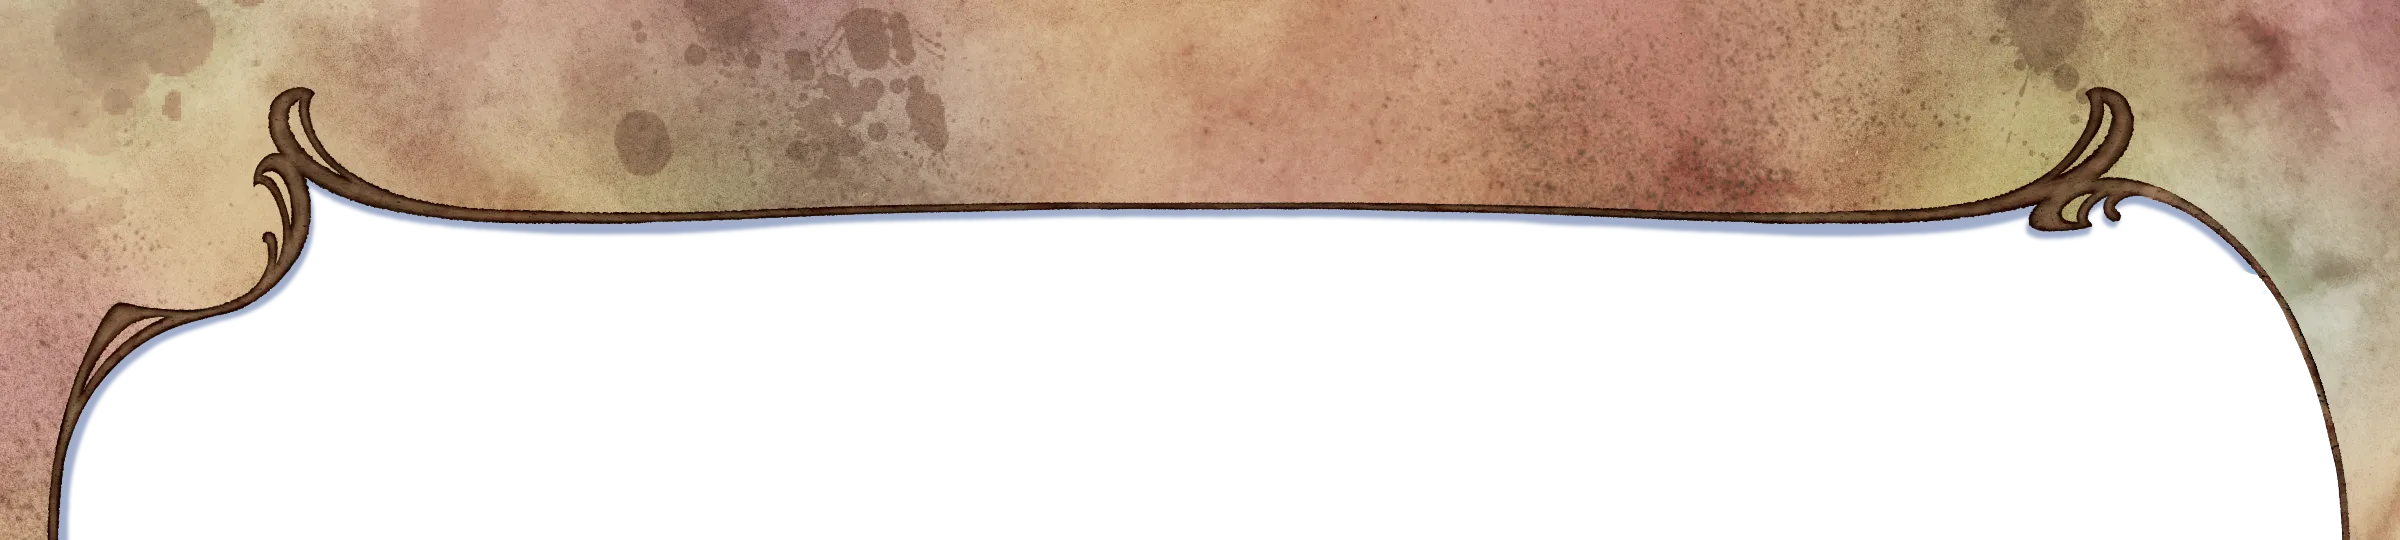
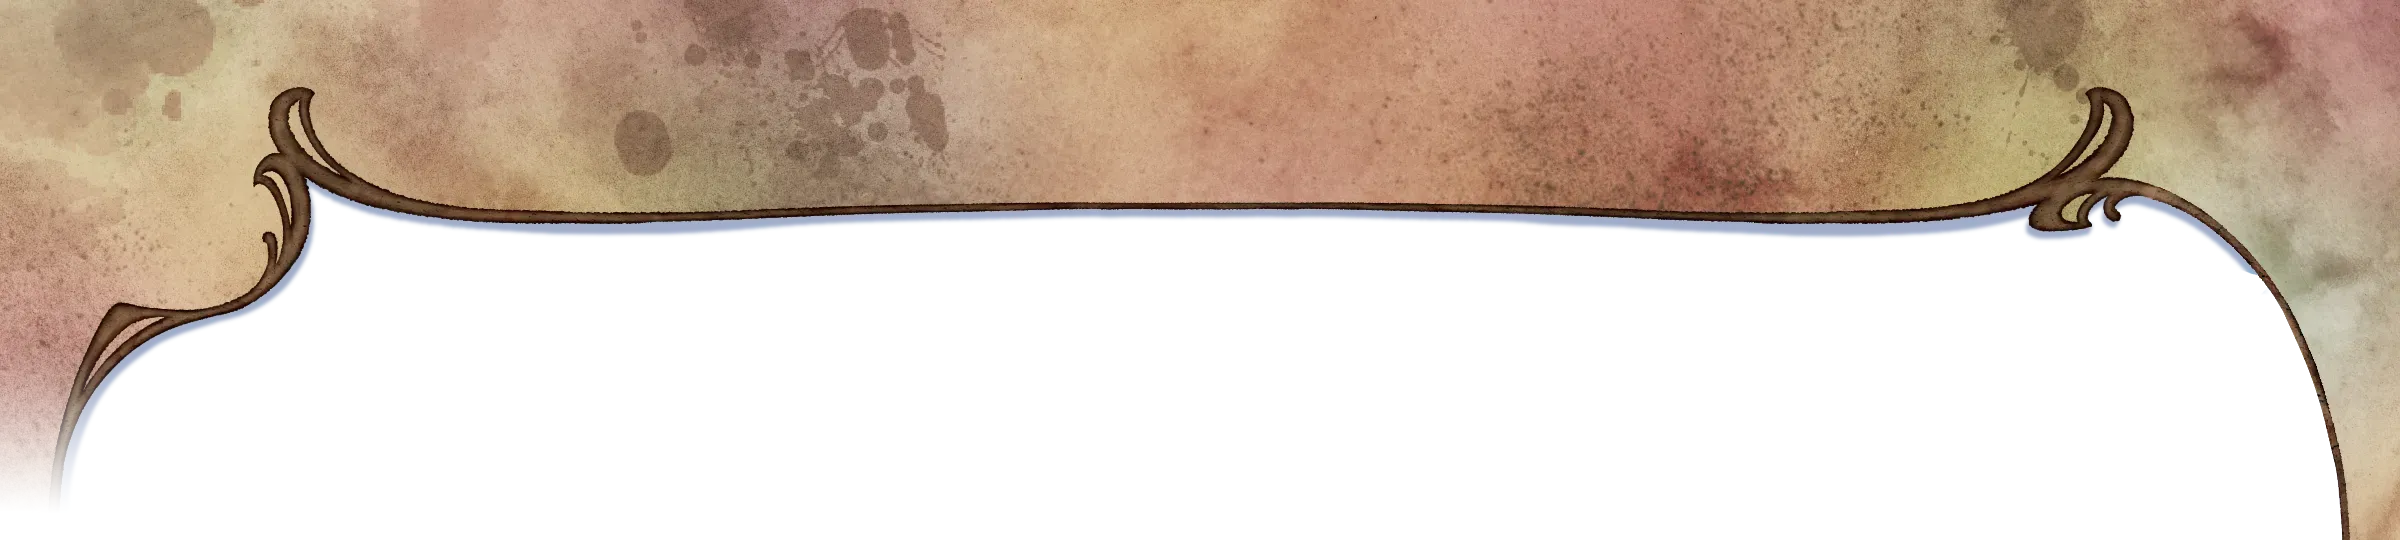
Moon enabled only at night

Changed region(s): [[0.0, 0.6815, 0.0625, 1.0]]

diff --git a/client/src/scene/matchRegions/passRegion.ts b/client/src/scene/matchRegions/passRegion.ts
@@ -19,6 +19,7 @@ import { server } from '../../server'
 export default class PassRegion extends Region {
   callback: () => boolean
   recapCallback: () => void
+  skipCallback: () => void
 
   // The callback once the winner has been declared
   showResultsCallback: () => void
@@ -63,9 +64,20 @@ export default class PassRegion extends Region {
     }
     this.container.setVisible(true)
 
-    // Display the current score totals
-    const s = `${state.score[1]}\n\n${state.score[0]}`
-    this.btnMoon.setText(s)
+    // Display the current score totals (mark when recap has paused on round result)
+    const isRecapEndPause =
+      state.isRecap &&
+      state.sound !== null &&
+      ['win', 'lose', 'tie'].includes(state.sound)
+    this.btnMoon.setText(
+      `${state.score[1]}\n${isRecapEndPause ? 'Paused' : ''}\n${state.score[0]}`,
+    )
+
+    if (state.isRecap) {
+      this.btnMoon.enable()
+    } else {
+      this.btnMoon.disable()
+    }
 
     // Rotate to the right day/night
     this.showDayNight(state.isRecap)
@@ -135,7 +147,9 @@ export default class PassRegion extends Region {
   private createButtons(): void {
     const x = -115
     this.btnPass = new Buttons.Sun(this.container, x, 0)
-    this.btnMoon = new Buttons.Moon(this.container, -x, 0, () => {})
+    this.btnMoon = new Buttons.Moon(this.container, -x, 0, () =>
+      this.skipCallback(),
+    ).disable()
   }
 
   private createText(): void {

diff --git a/client/src/scene/matchRegions/backgroundRegion.ts b/client/src/scene/matchRegions/backgroundRegion.ts
@@ -39,9 +39,8 @@ export default class BackgroundRegion extends Region {
 
     this.matchTop = scene.add
       .image(0, 0, 'background-matchTop')
-      .setOrigin(0.5, 0)
+      .setOrigin(0.5, 1)
       .setInteractive()
-      .setVisible(false)
 
     this.matchBottom = scene.add
       .image(0, 0, 'background-matchBottom')
@@ -57,9 +56,10 @@ export default class BackgroundRegion extends Region {
       height: `100%`,
     })
 
+    const height = 350
     scene.plugins.get('rexAnchor')['add'](this.matchTop, {
       x: `50%`,
-      y: `0%`,
+      y: `0%+${height}`,
       width: `100%`,
       onResizeCallback: (w, _h, img, anchor) => {
         fitBackgroundWidth(
@@ -70,9 +70,10 @@ export default class BackgroundRegion extends Region {
       },
     })
 
+    // 222
     scene.plugins.get('rexAnchor')['add'](this.matchBottom, {
       x: `50%`,
-      y: `100%-${222}`,
+      y: `100%-${height}`,
       width: `100%`,
       onResizeCallback: (w, _h, img, anchor) => {
         fitBackgroundWidth(

diff --git a/client/src/scene/matchScene.ts b/client/src/scene/matchScene.ts
@@ -301,7 +301,7 @@ export class MatchScene extends BaseScene {
     }
 
     // Skip: go to the next live match state, or the latest buffered frame if needed
-    view.historyRegion.skipCallback = () => {
+    const skipRecap = () => {
       this.tweens.getTweens().forEach((tween) => {
         tween.complete()
       })
@@ -309,6 +309,8 @@ export class MatchScene extends BaseScene {
       this.paused = false
       this.seekQueuedStateAfterRecap()
     }
+    view.historyRegion.skipCallback = skipRecap
+    view.pass.skipCallback = skipRecap
 
     // Display the cost of each card in our hand
     view.ourBoard.setDisplayCostCallback((cost: number) => {

diff --git a/client/src/loader/assetLists.ts b/client/src/loader/assetLists.ts
@@ -355,11 +355,9 @@ export const assetLists = {
       "Quest",
       "QuestsTab",
       "Recap",
-      "Recap",
       "Search",
       "Share",
       "Sight",
-      "Skip",
       "Skip",
       "SmallX",
       "Social",
@@ -389,6 +387,8 @@ export const assetLists = {
       "Light",
       "matchBottom copy",
       "matchBottom",
+      "matchBottom",
+      "matchTop",
       "matchTop",
       "water"
     ],

diff --git a/client/src/lib/buttons/moon.ts b/client/src/lib/buttons/moon.ts
@@ -17,7 +17,7 @@ export default class Moon extends Button {
       },
       icon: {
         name: 'Moon',
-        interactive: false,
+        interactive: true,
         circular: true,
       },
       callbacks: {
